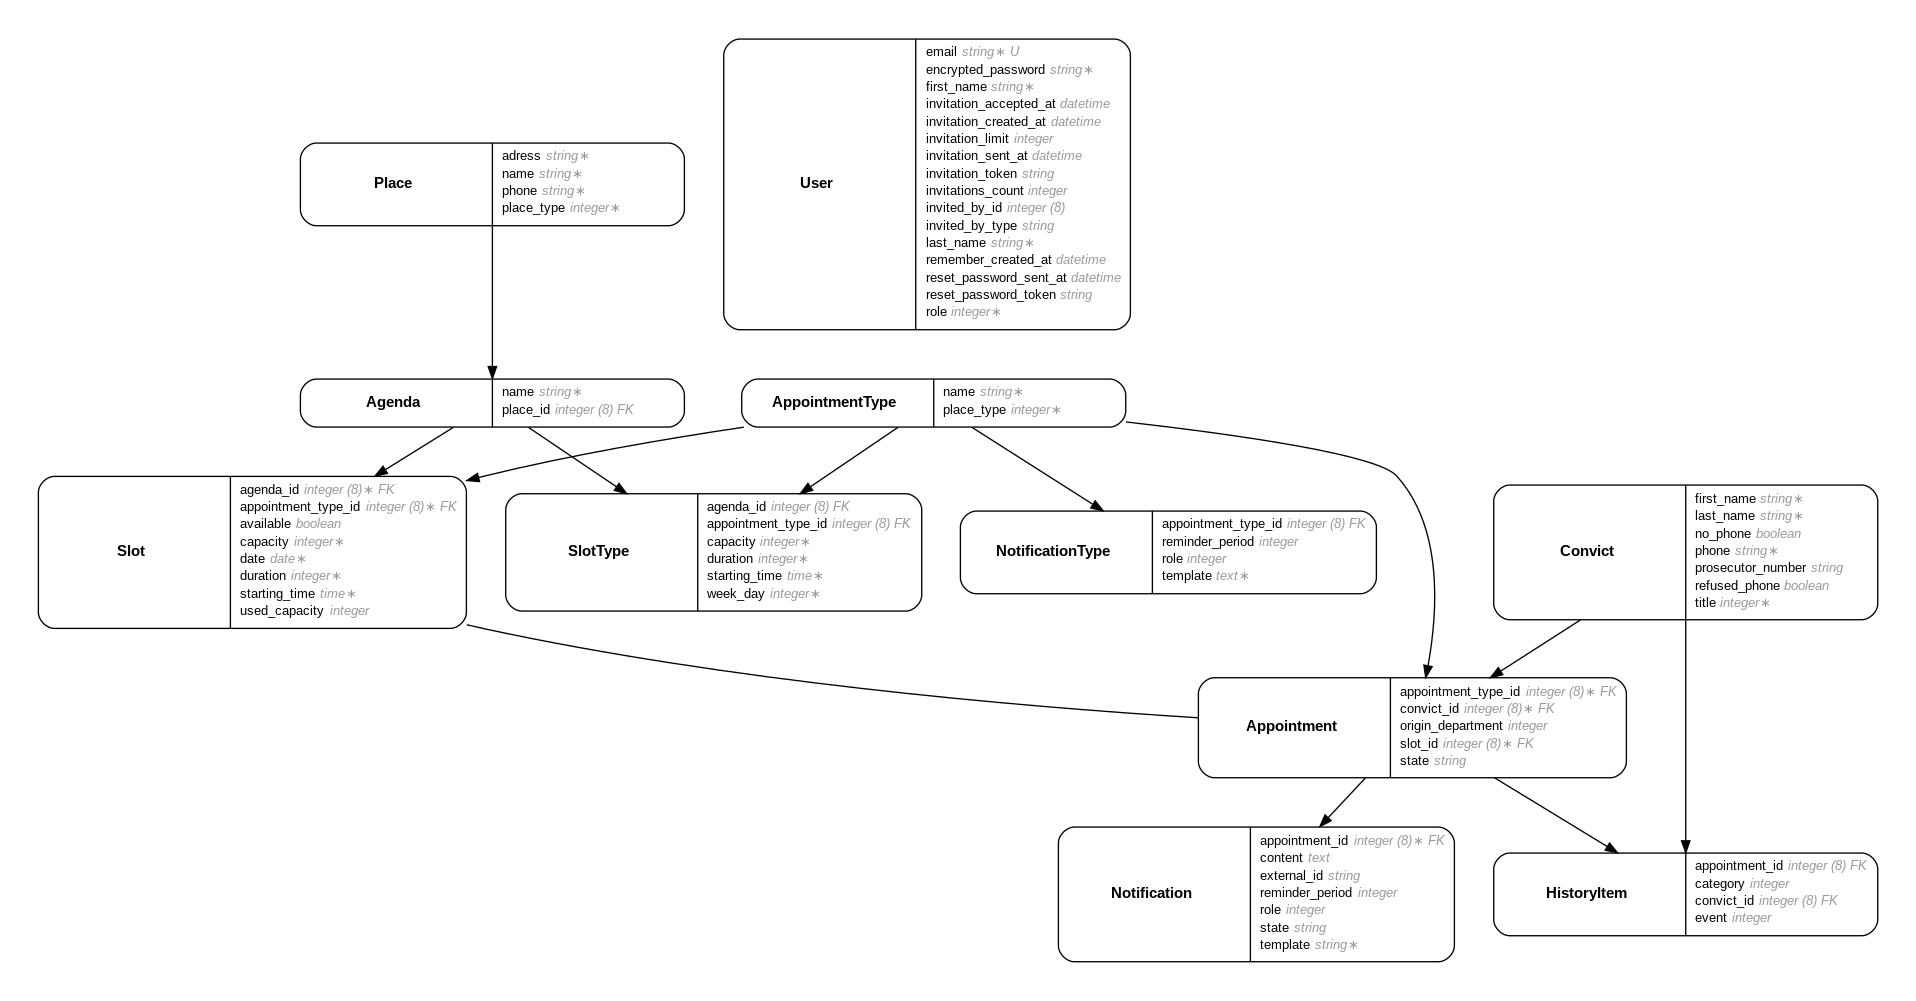
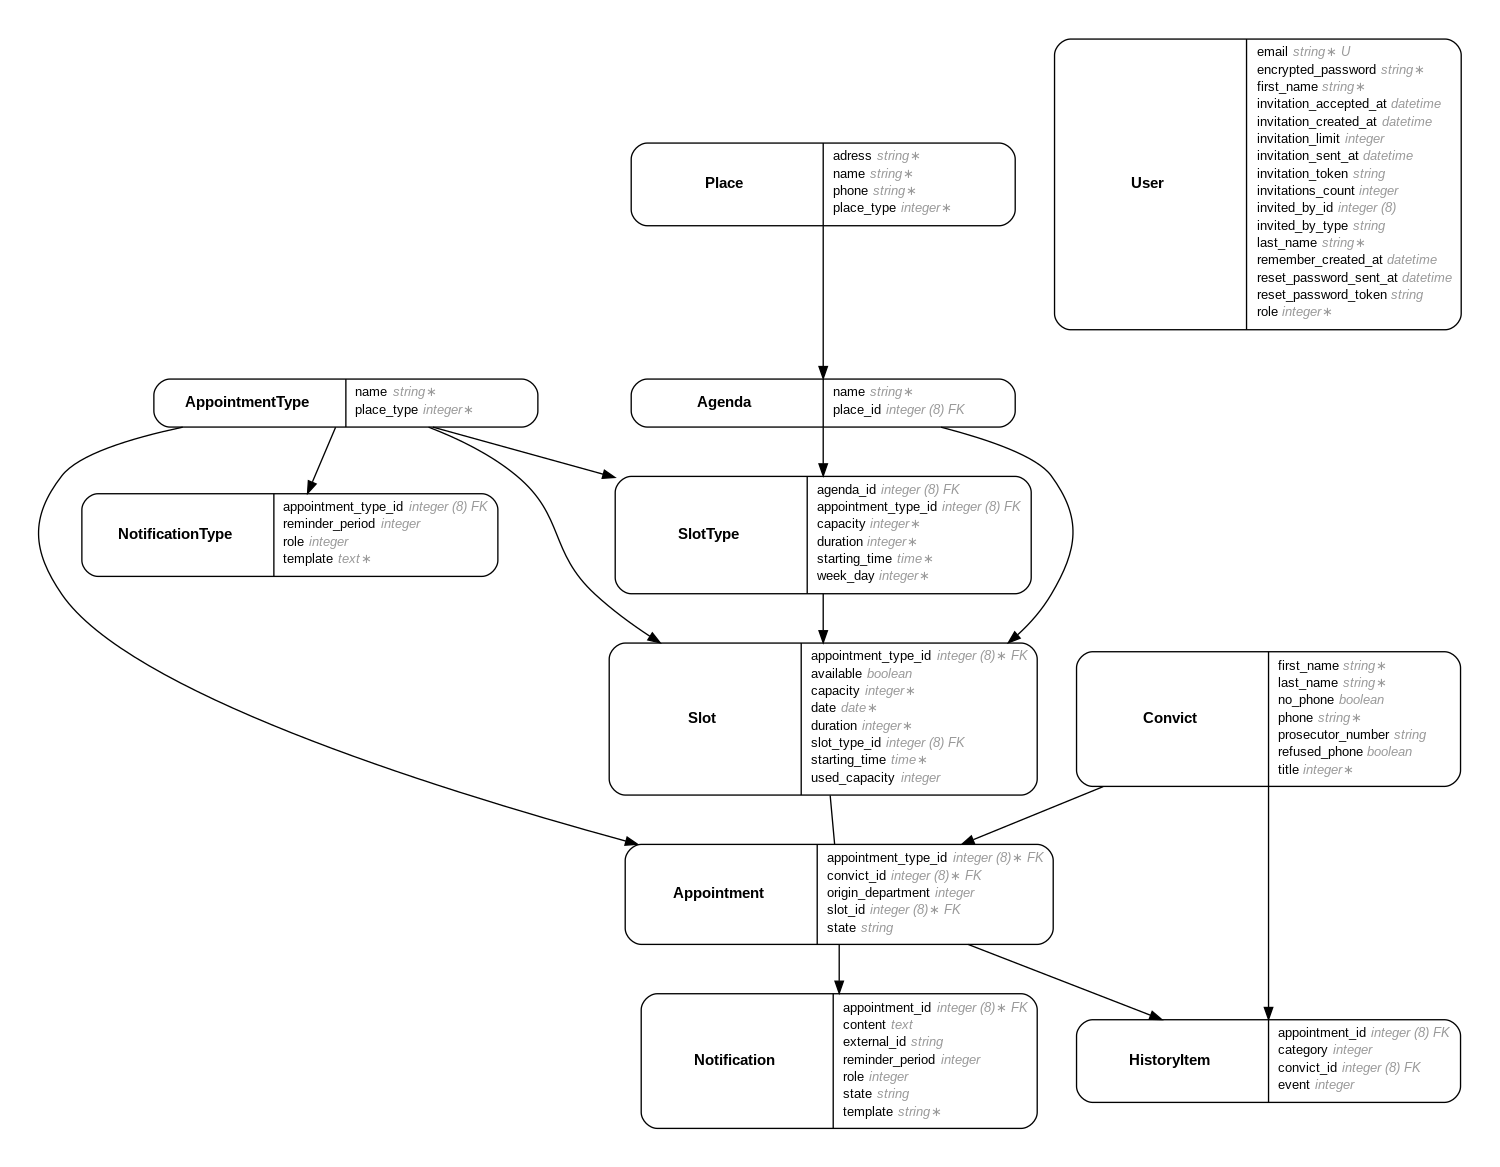
reference slot to slotstype

diff --git a/db/seeds.rb b/db/seeds.rb
@@ -9,12 +9,12 @@ NotificationType.create!(appointment_type: appointment_type, role: :summon, temp
 NotificationType.create!(appointment_type: appointment_type, role: :reminder, template: "RAPPEL Vous êtes convoqué, vraiment il faut venir.", reminder_period: :two_days)
 NotificationType.create!(appointment_type: appointment_type, role: :cancelation, template: "Finalement non, c'est pas la peine.")
 
-SlotType.create(appointment_type: appointment_type, week_day: :monday, starting_time: Time.new(2021, 6, 21, 10, 00, 0), duration: 60, capacity: 3)
-SlotType.create(appointment_type: appointment_type, week_day: :monday, starting_time: Time.new(2021, 6, 21, 11, 00, 0), duration: 60, capacity: 3)
-SlotType.create(appointment_type: appointment_type, week_day: :tuesday, starting_time: Time.new(2021, 6, 21, 10, 00, 0), duration: 60, capacity: 3)
-SlotType.create(appointment_type: appointment_type, week_day: :tuesday, starting_time: Time.new(2021, 6, 21, 11, 00, 0), duration: 60, capacity: 3)
-SlotType.create(appointment_type: appointment_type, week_day: :wednesday, starting_time: Time.new(2021, 6, 21, 10, 00, 0), duration: 60, capacity: 3)
-SlotType.create(appointment_type: appointment_type, week_day: :wednesday, starting_time: Time.new(2021, 6, 21, 11, 00, 0), duration: 60, capacity: 3)
+SlotType.create(appointment_type: appointment_type, agenda: agenda, week_day: :monday, starting_time: Time.new(2021, 6, 21, 10, 00, 0), duration: 60, capacity: 3)
+SlotType.create(appointment_type: appointment_type, agenda: agenda, week_day: :monday, starting_time: Time.new(2021, 6, 21, 11, 00, 0), duration: 60, capacity: 3)
+SlotType.create(appointment_type: appointment_type, agenda: agenda, week_day: :tuesday, starting_time: Time.new(2021, 6, 21, 10, 00, 0), duration: 60, capacity: 3)
+SlotType.create(appointment_type: appointment_type, agenda: agenda, week_day: :tuesday, starting_time: Time.new(2021, 6, 21, 11, 00, 0), duration: 60, capacity: 3)
+SlotType.create(appointment_type: appointment_type, agenda: agenda, week_day: :wednesday, starting_time: Time.new(2021, 6, 21, 10, 00, 0), duration: 60, capacity: 3)
+SlotType.create(appointment_type: appointment_type, agenda: agenda, week_day: :wednesday, starting_time: Time.new(2021, 6, 21, 11, 00, 0), duration: 60, capacity: 3)
 
 all_dates = []
 Date.today.upto(6.months.from_now.to_date) { |date| all_dates << date }

diff --git a/db/schema.rb b/db/schema.rb
@@ -10,7 +10,7 @@
 #
 # It's strongly recommended that you check this file into your version control system.
 
-ActiveRecord::Schema.define(version: 2021_09_16_111658) do
+ActiveRecord::Schema.define(version: 2021_09_16_121021) do
 
   # These are extensions that must be enabled in order to support this database
   enable_extension "plpgsql"
@@ -121,9 +121,9 @@ ActiveRecord::Schema.define(version: 2021_09_16_111658) do
     t.integer "capacity", default: 1
     t.integer "used_capacity", default: 0
     t.bigint "appointment_type_id", null: false
-    t.bigint "agenda_id", null: false
-    t.index ["agenda_id"], name: "index_slots_on_agenda_id"
+    t.bigint "slot_type_id"
     t.index ["appointment_type_id"], name: "index_slots_on_appointment_type_id"
+    t.index ["slot_type_id"], name: "index_slots_on_slot_type_id"
   end
 
   create_table "users", force: :cascade do |t|
@@ -173,6 +173,6 @@ ActiveRecord::Schema.define(version: 2021_09_16_111658) do
   add_foreign_key "notifications", "appointments"
   add_foreign_key "slot_types", "agendas"
   add_foreign_key "slot_types", "appointment_types"
-  add_foreign_key "slots", "agendas"
   add_foreign_key "slots", "appointment_types"
+  add_foreign_key "slots", "slot_types"
 end

diff --git a/app/jobs/slot_types_agenda_link_job.rb b/app/jobs/slot_types_agenda_link_job.rb
@@ -1,0 +1,17 @@
+class SlotTypesAgendaLinkJob < ApplicationJob
+  #
+  # Job to seed the Agenda<>SlotTypes relation after the migration, to be done asap after migration
+  # Will duplicate each current slot type in every agenda.
+  #
+  def perform
+    SlotType.find_each do |slot_type|
+      Agenda.find_each do |agenda|
+        SlotType.create(
+          week_day: slot_type.week_day, starting_time: slot_type.starting_time, duration: slot_type.duration,
+          capacity: slot_type.capacity, appointment_type: slot_type.appointment_type, agenda: agenda
+        )
+        slot_type.destroy # destroy the legacy slot type without agenda
+      end
+    end
+  end
+end

diff --git a/app/models/slot_type.rb b/app/models/slot_type.rb
@@ -4,6 +4,20 @@ class SlotType < ApplicationRecord
   belongs_to :appointment_type
   belongs_to :agenda
 
+  has_many :slots, dependent: :nullify
+
+  #
+  # When a SlotType is destroyed, we remove corresponding slots, as they are no more available
+  # Slot already booked are preserved.
+  #
+  before_destroy :destroy_slots_not_booked # TODO spec
+
   validates :week_day, :duration, :starting_time, :capacity, presence: true
   enum week_day: %i[monday tuesday wednesday thursday friday]
+
+  private
+
+  def destroy_slots_not_booked
+    slots.where.not(id: Appointment.select(:slot_id)).destroy_all
+  end
 end

diff --git a/db/migrate/20210916121021_move_slot_referece_from_agenda_to_slot_type.rb b/db/migrate/20210916121021_move_slot_referece_from_agenda_to_slot_type.rb
@@ -1,0 +1,6 @@
+class MoveSlotRefereceFromAgendaToSlotType < ActiveRecord::Migration[6.1]
+  def change
+    remove_column :slots, :agenda_id, :reference, foreign_key: true, index: true
+    add_reference :slots, :slot_type, foreign_key: true, index: true
+  end
+end

diff --git a/app/models/slot.rb b/app/models/slot.rb
@@ -1,7 +1,7 @@
 class Slot < ApplicationRecord
   has_paper_trail
 
-  belongs_to :agenda
+  belongs_to :slot_type
   belongs_to :appointment_type
   has_one :appointment, dependent: :destroy
 

diff --git a/app/controllers/slot_types_controller.rb b/app/controllers/slot_types_controller.rb
@@ -1,0 +1,8 @@
+class SlotTypesController < ApplicationController
+  before_action :authenticate_user!
+
+  def index
+    @slot_types = SlotTypes.all
+    authorize @slot_types
+  end
+end
